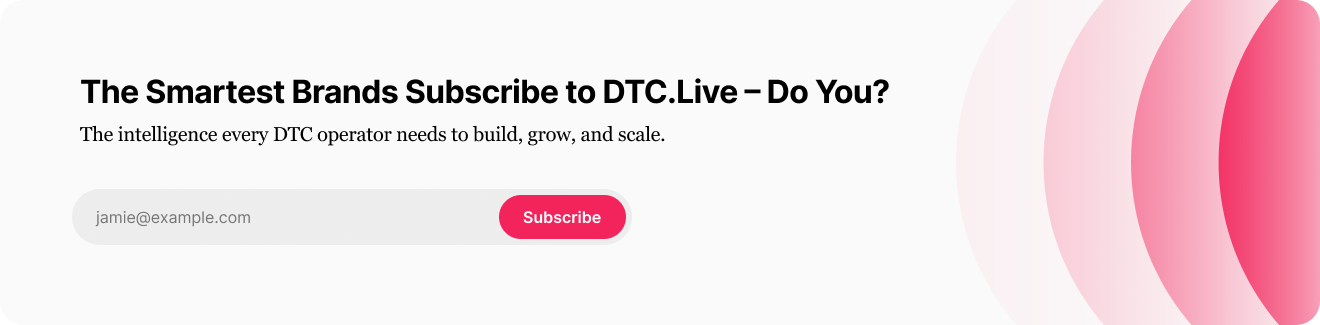
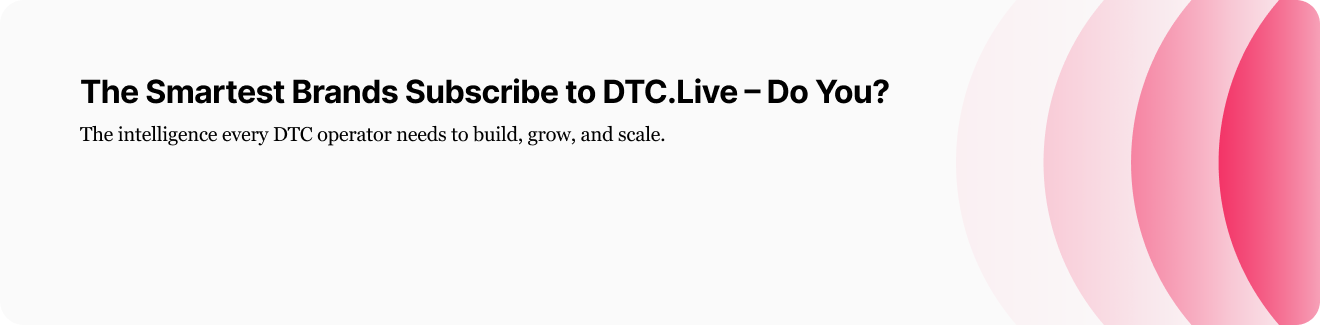
feat: switch newsletter to Ghost, add social links, polish design assets
- Replace Beehiiv subscribe API with Ghost Admin API (JWT auth)
- Add Ghost addMember() to lib/ghost.ts with proper error handling
- Rebuild newsletter CTA with image banner + overlaid form
- Replace LR sponsor banner with 2x retina asset
- Add X and LinkedIn icons to footer
- Update DEPLOY.md with GHOST_ADMIN_API_KEY documentation

Changed region(s): [[0.3727, 0.5846, 0.497, 0.7385], [0.0621, 0.6462, 0.1864, 0.7077]]

diff --git a/components/home/newsletter-cta.tsx b/components/home/newsletter-cta.tsx
@@ -3,9 +3,11 @@
 import { useState, useCallback } from 'react'
 
 /**
- * Newsletter CTA with real functional subscribe form.
- * Design: light gray banner, bold headline, email input + pink button,
- * decorative pink concentric circles on the right.
+ * Newsletter CTA using the designed banner image (cta-banner.png) as background.
+ * The image has the headline, subheading, and decorative pink circles but NO form.
+ * A real email input + subscribe button is positioned in the empty space below the text.
+ *
+ * On mobile, falls back to a text-based layout since the image is too wide.
  */
 export function NewsletterCTA() {
   const [email, setEmail] = useState('')
@@ -44,34 +46,80 @@ export function NewsletterCTA() {
   return (
     <section className="border-y border-border">
       <div className="mx-auto max-w-[1280px] px-5 py-8">
-        <div className="relative overflow-hidden rounded-xl bg-[#f5f3f0]">
-          {/* Decorative circles — right side */}
-          <div className="pointer-events-none absolute -right-16 top-1/2 hidden -translate-y-1/2 sm:block">
-            <div className="relative h-[320px] w-[320px]">
-              <div className="absolute inset-0 rounded-full bg-[#F2245B]/[0.07]" />
-              <div className="absolute inset-6 rounded-full bg-[#F2245B]/[0.10]" />
-              <div className="absolute inset-12 rounded-full bg-[#F2245B]/[0.15]" />
-              <div className="absolute inset-[72px] rounded-full bg-[#F2245B]/[0.20]" />
+        {/* Desktop: image background with overlaid form */}
+        <div className="hidden sm:block">
+          <div
+            className="relative overflow-hidden rounded-xl"
+            style={{ aspectRatio: '1320 / 325' }}
+          >
+            <img
+              src="/cta-banner.png"
+              alt="The Smartest Brands Subscribe to DTC.Live"
+              className="absolute inset-0 h-full w-full object-cover"
+            />
+
+            {/* Form overlay — aligned with heading text in the image */}
+            <div
+              className="absolute z-10"
+              style={{ left: '6.5%', bottom: '16%', width: '42%' }}
+            >
+              {status === 'success' ? (
+                <div className="flex items-center gap-2 text-sm font-semibold text-green-600">
+                  <svg className="h-5 w-5 shrink-0" fill="none" viewBox="0 0 24 24" stroke="currentColor" strokeWidth={2}>
+                    <path strokeLinecap="round" strokeLinejoin="round" d="M5 13l4 4L19 7" />
+                  </svg>
+                  {message}
+                </div>
+              ) : (
+                <>
+                  <form onSubmit={handleSubmit} className="flex gap-0">
+                    <input
+                      type="email"
+                      value={email}
+                      onChange={(e) => {
+                        setEmail(e.target.value)
+                        if (status === 'error') setStatus('idle')
+                      }}
+                      placeholder="jamie@example.com"
+                      required
+                      className="h-10 flex-1 rounded-l-full border-0 bg-white px-5 text-sm text-text-body outline-none placeholder:text-text-caption/50 focus:ring-2 focus:ring-primary/30"
+                    />
+                    <button
+                      type="submit"
+                      disabled={status === 'loading'}
+                      className="h-10 shrink-0 rounded-r-full bg-primary px-6 text-sm font-bold text-white transition-colors duration-150 hover:bg-primary-hover disabled:opacity-60"
+                    >
+                      {status === 'loading' ? '...' : 'Subscribe'}
+                    </button>
+                  </form>
+                  {status === 'error' && (
+                    <p className="mt-1.5 text-xs text-red-500">{message}</p>
+                  )}
+                </>
+              )}
             </div>
           </div>
+        </div>
 
-          <div className="relative z-10 px-8 py-10 sm:px-12 sm:py-12 lg:max-w-[65%]">
-            <h2 className="font-heading text-2xl font-bold leading-tight text-text-headline sm:text-3xl lg:text-[2rem]">
+        {/* Mobile: stacked text layout */}
+        <div className="sm:hidden">
+          <div className="overflow-hidden rounded-xl bg-[#f5f3f0] px-6 py-8">
+            <h2 className="font-heading text-2xl font-bold leading-tight text-text-headline">
               The Smartest Brands Subscribe to DTC.Live
             </h2>
-            <p className="mt-2.5 text-base leading-relaxed text-text-muted sm:text-lg">
+            <p className="mt-2 text-sm leading-relaxed text-text-muted">
               The intelligence every DTC operator needs to build, grow, and scale.
             </p>
 
             {status === 'success' ? (
-              <div className="mt-6 flex items-center gap-2 text-sm font-semibold text-green-600">
+              <div className="mt-5 flex items-center gap-2 text-sm font-semibold text-green-600">
                 <svg className="h-5 w-5" fill="none" viewBox="0 0 24 24" stroke="currentColor" strokeWidth={2}>
                   <path strokeLinecap="round" strokeLinejoin="round" d="M5 13l4 4L19 7" />
                 </svg>
                 {message}
               </div>
             ) : (
-              <form onSubmit={handleSubmit} className="mt-6 flex max-w-lg flex-col gap-3 sm:flex-row sm:gap-0">
+              <form onSubmit={handleSubmit} className="mt-5 flex flex-col gap-3">
                 <input
                   type="email"
                   value={email}
@@ -81,12 +129,12 @@ export function NewsletterCTA() {
                   }}
                   placeholder="jamie@example.com"
                   required
-                  className="h-12 flex-1 rounded-full border-0 bg-white px-5 text-sm text-text-body shadow-sm outline-none placeholder:text-text-caption/60 focus:ring-2 focus:ring-primary/30 sm:rounded-r-none"
+                  className="h-12 rounded-full border-0 bg-white px-5 text-sm text-text-body shadow-sm outline-none placeholder:text-text-caption/60 focus:ring-2 focus:ring-primary/30"
                 />
                 <button
                   type="submit"
                   disabled={status === 'loading'}
-                  className="h-12 rounded-full bg-primary px-7 text-sm font-bold text-white shadow-sm transition-colors duration-150 hover:bg-primary-hover disabled:opacity-60 sm:rounded-l-none"
+                  className="h-12 rounded-full bg-primary px-7 text-sm font-bold text-white shadow-sm transition-colors duration-150 hover:bg-primary-hover disabled:opacity-60"
                 >
                   {status === 'loading' ? 'Subscribing...' : 'Subscribe'}
                 </button>

diff --git a/lib/ghost.ts b/lib/ghost.ts
@@ -1,4 +1,5 @@
 import { cache } from 'react'
+import { createHmac } from 'crypto'
 import type {
   GhostPost,
   GhostTag,
@@ -10,6 +11,7 @@ import type {
 
 const GHOST_API_URL = process.env.GHOST_API_URL
 const GHOST_CONTENT_API_KEY = process.env.GHOST_CONTENT_API_KEY
+const GHOST_ADMIN_API_KEY = process.env.GHOST_ADMIN_API_KEY
 
 // Fields to include on every post request.
 // codeinjection_head / codeinjection_foot / og_image / meta_description /
@@ -245,3 +247,79 @@ export const getPostsByAuthor = cache(
     return fetchGhost<GhostPostsResponse>(url)
   }
 )
+
+// ---------------------------------------------------------------------------
+// Ghost Admin API — used for member (newsletter) subscriptions.
+// The Admin API authenticates via a short-lived JWT signed with an HMAC key
+// derived from the admin API key (format: "id:secret").
+// ---------------------------------------------------------------------------
+
+function createAdminToken(): string {
+  if (!GHOST_ADMIN_API_KEY) {
+    throw new Error('GHOST_ADMIN_API_KEY environment variable is not set')
+  }
+
+  const [id, secret] = GHOST_ADMIN_API_KEY.split(':')
+  if (!id || !secret) {
+    throw new Error('GHOST_ADMIN_API_KEY must be in "id:secret" format')
+  }
+
+  const now = Math.floor(Date.now() / 1000)
+
+  const header = Buffer.from(JSON.stringify({ alg: 'HS256', typ: 'JWT', kid: id })).toString(
+    'base64url'
+  )
+  const payload = Buffer.from(
+    JSON.stringify({ iat: now, exp: now + 300, aud: '/admin/' })
+  ).toString('base64url')
+
+  const signature = createHmac('sha256', Buffer.from(secret, 'hex'))
+    .update(`${header}.${payload}`)
+    .digest('base64url')
+
+  return `${header}.${payload}.${signature}`
+}
+
+/**
+ * Add a member (newsletter subscriber) via the Ghost Admin API.
+ * Returns { success: true } on success, or throws on failure.
+ */
+export async function addMember(
+  email: string
+): Promise<{ success: true; status: number }> {
+  if (!GHOST_API_URL) {
+    throw new Error('GHOST_API_URL environment variable is not set')
+  }
+  if (!GHOST_ADMIN_API_KEY) {
+    throw new Error('GHOST_ADMIN_API_KEY environment variable is not set')
+  }
+
+  const token = createAdminToken()
+  const url = `${GHOST_API_URL.replace(/\/$/, '')}/ghost/api/admin/members/`
+
+  const res = await fetch(url, {
+    method: 'POST',
+    headers: {
+      Authorization: `Ghost ${token}`,
+      'Content-Type': 'application/json',
+    },
+    body: JSON.stringify({
+      members: [{ email, subscribed: true }],
+    }),
+    cache: 'no-store',
+  })
+
+  if (res.status === 201) {
+    return { success: true, status: 201 }
+  }
+
+  if (res.status === 422) {
+    // Member already exists
+    return { success: true, status: 200 }
+  }
+
+  const safeUrl = url.split('?')[0]
+  throw new Error(
+    `Ghost Admin API request failed: ${res.status} ${res.statusText} — ${safeUrl}`
+  )
+}

diff --git a/app/api/subscribe/route.ts b/app/api/subscribe/route.ts
@@ -1,7 +1,5 @@
 import { NextRequest, NextResponse } from 'next/server'
-
-const BEEHIIV_API_KEY = process.env.BEEHIIV_API_KEY
-const BEEHIIV_PUBLICATION_ID = process.env.BEEHIIV_PUBLICATION_ID
+import { addMember } from '@/lib/ghost'
 
 // RFC 5321 maximum email length
 const MAX_EMAIL_LENGTH = 254
@@ -27,18 +25,18 @@ function isValidEmail(email: string): boolean {
  * POST /api/subscribe
  *
  * Accepts { email: string } in the request body and subscribes the address
- * to the Beehiiv publication configured via environment variables.
+ * as a Ghost member (newsletter subscriber) via the Ghost Admin API.
  *
  * Returns:
- *   200 { success: true }                    — already subscribed (Beehiiv 200)
- *   201 { success: true }                    — newly subscribed (Beehiiv 201)
+ *   200 { success: true }                    — already subscribed
+ *   201 { success: true }                    — newly subscribed
  *   400 { success: false, error: string }    — missing or invalid email
  *   503 { success: false, error: string }    — env vars not configured
  *   500 { success: false, error: string }    — upstream failure
  */
 export async function POST(request: NextRequest) {
-  // Guard: env vars must be present before we attempt any parsing
-  if (!BEEHIIV_API_KEY || !BEEHIIV_PUBLICATION_ID) {
+  // Guard: env vars must be present
+  if (!process.env.GHOST_API_URL || !process.env.GHOST_ADMIN_API_KEY) {
     return NextResponse.json(
       { success: false, error: 'Newsletter not configured' },
       { status: 503 }
@@ -91,33 +89,8 @@ export async function POST(request: NextRequest) {
   }
 
   try {
-    const beehiivUrl = `https://api.beehiiv.com/v2/publications/${BEEHIIV_PUBLICATION_ID}/subscriptions`
-
-    const res = await fetch(beehiivUrl, {
-      method: 'POST',
-      headers: {
-        Authorization: `Bearer ${BEEHIIV_API_KEY}`,
-        'Content-Type': 'application/json',
-      },
-      body: JSON.stringify({
-        email: rawEmail,
-        reactivate_existing: true,
-        send_welcome_email: true,
-      }),
-      // Do not cache subscription requests
-      cache: 'no-store',
-    })
-
-    if (res.status === 200 || res.status === 201) {
-      return NextResponse.json({ success: true }, { status: res.status })
-    }
-
-    // Beehiiv returned a non-success status
-    // Avoid leaking upstream error details to the client
-    return NextResponse.json(
-      { success: false, error: 'Subscription failed. Please try again.' },
-      { status: 500 }
-    )
+    const result = await addMember(rawEmail)
+    return NextResponse.json({ success: true }, { status: result.status })
   } catch {
     return NextResponse.json(
       { success: false, error: 'Subscription failed. Please try again.' },

diff --git a/components/layout/footer.tsx b/components/layout/footer.tsx
@@ -21,6 +21,30 @@ export function Footer() {
             <p className="max-w-xs text-sm leading-relaxed text-nav-text/60">
               The DTC industry&apos;s leading media brand.
             </p>
+            <div className="flex gap-4">
+              <a
+                href="https://x.com/dtcliveUS"
+                target="_blank"
+                rel="noopener noreferrer"
+                aria-label="Follow us on X"
+                className="text-nav-text/70 transition-colors duration-200 hover:text-primary"
+              >
+                <svg className="h-5 w-5" fill="currentColor" viewBox="0 0 24 24" aria-hidden="true">
+                  <path d="M18.244 2.25h3.308l-7.227 8.26 8.502 11.24H16.17l-5.214-6.817L4.99 21.75H1.68l7.73-8.835L1.254 2.25H8.08l4.713 6.231zm-1.161 17.52h1.833L7.084 4.126H5.117z" />
+                </svg>
+              </a>
+              <a
+                href="https://linkedin.com/company/dtclive-us"
+                target="_blank"
+                rel="noopener noreferrer"
+                aria-label="Follow us on LinkedIn"
+                className="text-nav-text/70 transition-colors duration-200 hover:text-primary"
+              >
+                <svg className="h-5 w-5" fill="currentColor" viewBox="0 0 24 24" aria-hidden="true">
+                  <path d="M20.447 20.452h-3.554v-5.569c0-1.328-.027-3.037-1.852-3.037-1.853 0-2.136 1.445-2.136 2.939v5.667H9.351V9h3.414v1.561h.046c.477-.9 1.637-1.85 3.37-1.85 3.601 0 4.267 2.37 4.267 5.455v6.286zM5.337 7.433a2.062 2.062 0 01-2.063-2.065 2.064 2.064 0 112.063 2.065zm1.782 13.019H3.555V9h3.564v11.452zM22.225 0H1.771C.792 0 0 .774 0 1.729v20.542C0 23.227.792 24 1.771 24h20.451C23.2 24 24 23.227 24 22.271V1.729C24 .774 23.2 0 22.222 0h.003z" />
+                </svg>
+              </a>
+            </div>
           </div>
 
           {/* Sections column */}

diff --git a/components/home/sponsor-banner.tsx b/components/home/sponsor-banner.tsx
@@ -1,9 +1,10 @@
 import Link from 'next/link'
+import Image from 'next/image'
 
 /**
- * LiveRecover sponsor banner using the official design asset.
- * Image is 728x90 — displayed at natural aspect ratio, centered,
- * not stretched beyond its native resolution.
+ * LiveRecover sponsor banner using the official 2x design asset.
+ * The image is rendered at half its native pixel dimensions for
+ * crisp display on retina screens.
  */
 export function SponsorBanner() {
   return (
@@ -15,11 +16,13 @@ export function SponsorBanner() {
           rel="noopener noreferrer sponsored"
           className="mx-auto block max-w-3xl transition-opacity duration-200 hover:opacity-90"
         >
-          {/* eslint-disable-next-line @next/next/no-img-element */}
-          <img
+          <Image
             src="/lr-banner.png"
             alt="LiveRecover — The human layer your SMS strategy is missing. Get Started."
+            width={1456}
+            height={180}
             className="h-auto w-full rounded-lg"
+            priority={false}
           />
         </Link>
       </div>

diff --git a/DEPLOY.md b/DEPLOY.md
@@ -23,18 +23,19 @@ The following environment variables must be set in the Vercel project settings (
 |----------|------|----------|-------------|
 | `GHOST_API_URL` | Plain | Yes | Ghost CMS API URL (e.g. `https://dtc-live.ghost.io`) |
 | `GHOST_CONTENT_API_KEY` | Encrypted | Yes | Ghost Content API key from Ghost Admin |
+| `GHOST_ADMIN_API_KEY` | Encrypted | Yes | Ghost Admin API key for newsletter subscriptions (format: `id:secret`) |
 
-Both variables should be set for all targets: production, preview, and development.
+All variables should be set for all targets: production, preview, and development.
 
-### Getting the Ghost Content API Key
+### Getting the Ghost API Keys
 
 1. Log in to Ghost Admin at `https://dtc-live.ghost.io/ghost/`
 2. Go to Settings > Integrations
 3. Click "Add custom integration" (or find the existing dtc-live integration)
-4. Copy the **Content API Key**
-5. In Vercel project settings, update `GHOST_CONTENT_API_KEY` with the real key
+4. Copy the **Content API Key** and **Admin API Key**
+5. In Vercel project settings, set `GHOST_CONTENT_API_KEY` and `GHOST_ADMIN_API_KEY`
 
-**Status:** `GHOST_API_URL` is set to `https://dtc-live.ghost.io`. `GHOST_CONTENT_API_KEY` is set to a placeholder and must be updated with the real key before the site will load content.
+The Admin API Key is used server-side only for the newsletter subscribe endpoint (`/api/subscribe`). It is never exposed to the browser.
 
 ## Build Commands
 
